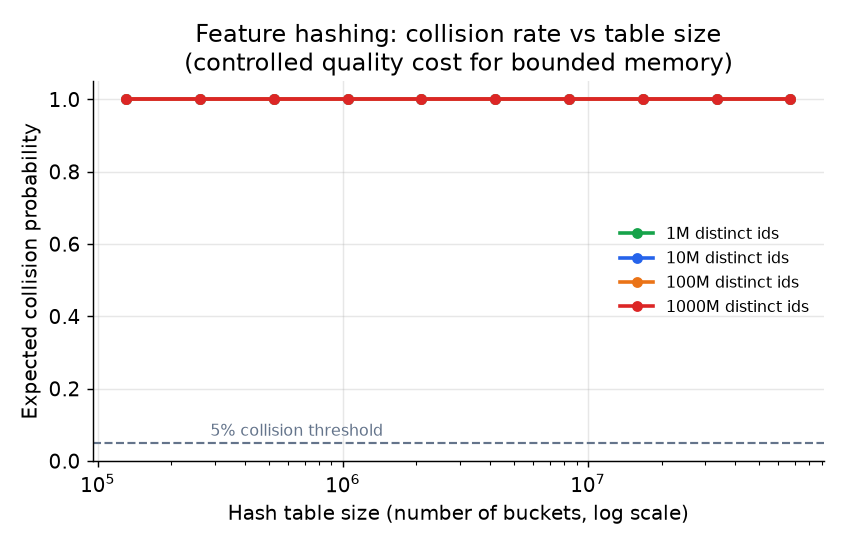
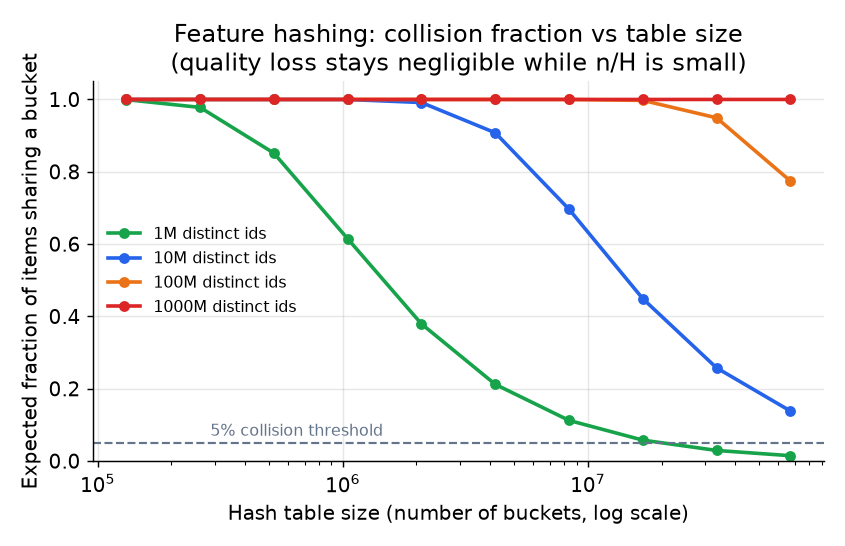
book: correctness pass across all chapters (audit fixes)
Fix issues found in an audit of the auto-generated chapters against the vetted
topics/ sources. Remove fabricated/unsourced company metrics throughout the
"how teams do it" and Q&A sections (replace specific numbers not in our sources
with the qualitative claim). Fix genuine math bugs: feature-hashing collision
formula (1 - e^{-n/H}), King-Zeng prior correction, F0.5 weighting (4x not 2x),
p99 of a bimodal latency mix, QPS = B/(W + L_model), WQL vs CRPS scope, MASE
seasonality note, forecasting critical-fractile (P75 not P90). Fix internal
inconsistencies (PinnerFormer, Whisper transcription vs teacher, feature-store
freshness caption, speech 80-bin). Regenerate the pinball-loss and feature-hash
figures. Regenerate aggregates.

diff --git a/book/forecasting/assets/plots.py b/book/forecasting/assets/plots.py
@@ -1,0 +1,69 @@
+import matplotlib; matplotlib.use('Agg')
+import matplotlib.pyplot as plt
+import numpy as np
+
+OUT = "/private/tmp/claude-501/-Users-xingao-Projects-Neurarch/65adcdb4-d882-4642-bf5c-d42bf1be1f61/scratchpad/awesome-ml-system-design/book/forecasting/assets/"
+
+plt.rcParams.update({
+    'figure.dpi': 130,
+    'font.size': 11,
+    'axes.grid': True,
+    'grid.alpha': 0.3,
+    'axes.spines.top': False,
+    'axes.spines.right': False,
+    'figure.autolayout': True,
+})
+BLUE, ORANGE, GREEN, RED, GRAY = '#2563eb', '#ea7317', '#16a34a', '#dc2626', '#64748b'
+
+# ---------------------------------------------------------------
+# 1) Pinball loss per quantile
+#    x-axis: residual r = y - q_hat
+#    Positive residual (r > 0): y > q_hat => forecast was too LOW => UNDER-predict
+#    Negative residual (r < 0): y < q_hat => forecast was too HIGH => OVER-predict
+# ---------------------------------------------------------------
+r = np.linspace(-3, 3, 500)
+
+def pinball(r, tau):
+    """Pinball loss as a function of residual r = y - q_hat and quantile tau."""
+    return np.where(r >= 0, tau * r, (tau - 1) * r)
+
+fig, axes = plt.subplots(1, 3, figsize=(11, 4), sharey=False)
+
+configs = [
+    (0.10, RED,    'P10 (tau=0.10)\nover-predict penalized heavily'),
+    (0.50, GRAY,   'P50 (tau=0.50)\nsymmetric = MAE'),
+    (0.90, BLUE,   'P90 (tau=0.90)\nunder-predict penalized heavily'),
+]
+
+for ax, (tau, col, title) in zip(axes, configs):
+    loss = pinball(r, tau)
+    ax.plot(r, loss, color=col, lw=2.5)
+    ax.set_xlabel('Residual r = y - q_hat')
+    ax.set_ylabel('Pinball loss')
+    ax.set_title(title, fontsize=9)
+
+    # Shade regions
+    ax.fill_between(r[r >= 0], 0, pinball(r[r >= 0], tau), alpha=0.15, color=GREEN,
+                    label='under-predict region')
+    ax.fill_between(r[r <= 0], 0, pinball(r[r <= 0], tau), alpha=0.15, color=RED,
+                    label='over-predict region')
+
+    # Vertical line at r=0
+    ax.axvline(0, color=GRAY, lw=1, ls='--')
+
+    # Annotations: positive residual (right) = under-predict; negative (left) = over-predict
+    ymax = ax.get_ylim()[1] if ax.get_ylim()[1] > 0 else 2.5
+    ax.text(1.5, ymax * 0.65, 'under-predict\n(r > 0)', ha='center', fontsize=8,
+            color=GREEN, fontweight='bold')
+    ax.text(-1.5, ymax * 0.65, 'over-predict\n(r < 0)', ha='center', fontsize=8,
+            color=RED, fontweight='bold')
+
+fig.suptitle(
+    'Pinball loss per quantile level\n'
+    '(x-axis: residual = y - forecast; positive residual = forecast too low = under-predict)',
+    fontsize=10
+)
+fig.savefig(OUT + 'fig-pinball-loss.png')
+plt.close(fig)
+
+print("wrote fig-pinball-loss.png to", OUT)

diff --git a/book/ads-ctr/assets/plots.py b/book/ads-ctr/assets/plots.py
@@ -114,8 +114,9 @@ table_sizes = np.array([2**17, 2**18, 2**19, 2**20, 2**21, 2**22, 2**23, 2**24, 
 
 for n_ids_m, c in zip([1, 10, 100, 1000], [GREEN, BLUE, ORANGE, RED]):
     n_ids = n_ids_m * 1_000_000
-    # Approximate collision probability: 1 - exp(-n*(n-1)/(2*B)) for n balls, B bins
-    collision = 1 - np.exp(-n_ids * (n_ids - 1) / (2.0 * table_sizes))
+    # Expected fraction of items landing in an already-occupied bucket: 1 - exp(-n/H)
+    # Per-pair collision probability is 1/H; this fraction stays ~n/H when n/H is small.
+    collision = 1 - np.exp(-n_ids / table_sizes)
     collision = np.clip(collision, 0, 1)
     ax.semilogx(table_sizes, collision, 'o-', color=c, lw=2, markersize=5,
                 label=f'{n_ids_m}M distinct ids')
@@ -123,8 +124,8 @@ for n_ids_m, c in zip([1, 10, 100, 1000], [GREEN, BLUE, ORANGE, RED]):
 ax.axhline(0.05, color=GRAY, ls='--', lw=1.2)
 ax.text(table_sizes[1] * 1.1, 0.07, '5% collision threshold', color=GRAY, fontsize=9)
 ax.set_xlabel('Hash table size (number of buckets, log scale)')
-ax.set_ylabel('Expected collision probability')
-ax.set_title('Feature hashing: collision rate vs table size\n(controlled quality cost for bounded memory)')
+ax.set_ylabel('Expected fraction of items sharing a bucket')
+ax.set_title('Feature hashing: collision fraction vs table size\n(quality loss stays negligible while n/H is small)')
 ax.legend(fontsize=9, frameon=False)
 ax.set_ylim(0, 1.05)
 

diff --git a/book/speech/assets/plots.py b/book/speech/assets/plots.py
@@ -111,7 +111,7 @@ ax_wave.grid(False)
 hop = 160  # 10 ms
 win = 400  # 25 ms
 n_fft = 512
-n_mels = 40
+n_mels = 80
 frames = []
 for i in range(0, len(wave) - win, hop):
     frame = wave[i:i + win] * np.hanning(win)
@@ -138,7 +138,7 @@ img = ax_spec.imshow(mel_S, aspect='auto', origin='lower', cmap='viridis',
                      extent=[0, t_total, 0, n_mels])
 ax_spec.set_ylabel('Mel bin')
 ax_spec.set_xlabel('Time (s)')
-ax_spec.set_title('Log-mel spectrogram (40 mel bins)')
+ax_spec.set_title('Log-mel spectrogram (80 mel bins)')
 fig.colorbar(img, ax=ax_spec, fraction=0.03, label='log energy')
 
 fig.tight_layout()

diff --git a/book/fraud-detection/04-model-development.md b/book/fraud-detection/04-model-development.md
@@ -7,11 +7,11 @@ boosted trees (XGBoost, LightGBM) are the first model to reach for. They handle
 mixed feature types naturally, give feature importance for free, produce
 well-calibrated probability estimates with isotonic regression or Platt scaling
 applied post-training, and train fast enough for daily or even hourly retraining
-cycles. Capital One's AML triage showed that a well-tuned random forest matched
-the ROC curves of XGBoost and RNNs while being twice as fast to train and far
-more explainable under regulatory scrutiny. The message: trees are not a fallback;
-they are the right starting point for tabular fraud signals and a strong baseline
-to beat before reaching for a DNN.
+cycles. Capital One's AML program uses a random forest to triage suspicious-activity
+alerts, prioritizing cases for investigation across hundreds of features under
+regulatory scrutiny where explainability is a hard requirement. The message: trees
+are not a fallback; they are the right starting point for tabular fraud signals
+and a strong baseline to beat before reaching for a DNN.
 
 ## Wide-and-Deep DNN
 
@@ -36,10 +36,9 @@ flowchart TD
 The wide side memorizes specific co-occurrences (device X plus merchant Y plus
 time-of-day Z was always fraud last month). The deep side generalizes to unseen
 combinations. They are trained jointly: the wide branch uses FTRL, the deep
-branch uses Adam, and neither is trained in isolation. Stripe evolved from a
-wide-and-deep ensemble to a pure DNN with a ResNeXt-style multi-branch design,
-cutting training time by over 85 percent while sustaining a 0.1 percent false-
-positive rate across billions of payments.
+branch uses Adam, and neither is trained in isolation. Stripe's Radar system uses
+a supervised model over tabular features and entity embeddings that is
+continuously retrained and must score each transaction in sub-100 ms.
 
 Two points to state in an interview: (1) embedding tables dominate parameter
 count, not the MLP layers, so the engineering cost of growing the embedding

diff --git a/book/content-moderation/04-model-development.md b/book/content-moderation/04-model-development.md
@@ -44,9 +44,11 @@ is too expensive at scale.
 Self-supervised speech models (wav2vec2, WavLM) either classify audio directly or
 transcribe-then-classify. For live voice chat (Roblox's problem), you need a distilled
 student model running on a 10-to-15-second rolling window at sub-100ms latency. The
-Roblox distillation chain: fine-tune WavLM, use Whisper as a teacher to distill
-into a 48M-parameter student, then quantize. The result serves over 2,000 requests
-per second.
+Roblox bootstrap-and-distill chain: use Whisper to transcribe audio at scale, apply
+the existing text-filter ensemble to those transcriptions to generate machine labels,
+then use those labels to train a small audio student (fine-tuned WavLM, approximately
+48M parameters) that infers directly from audio without a transcription step at serve
+time, then quantize. The result serves over 2,000 requests per second.
 
 ### Joint image-text models
 
@@ -99,9 +101,11 @@ $$\tau^{\star}_k = \arg\min_{\tau}\ \bigl[c_{\text{fn}}^{(k)} \cdot \text{fn}(\t
 
 ![Asymmetric costs per harm type](assets/fig-cost-asymmetry.png)
 
-*CSAM: the miss cost is roughly 200 times the false-block cost, forcing a very high
-precision floor before auto-action. Spam: costs are closer to balanced, allowing a
-lower precision floor and higher recall. Illustrative log scale.*
+*Hypothetical severe-harm example: in a case where the miss cost vastly exceeds the
+false-block cost (as with CSAM, where even a single miss has catastrophic
+consequences), the precision floor before auto-action is forced extremely high. Spam:
+costs are closer to balanced, allowing a lower precision floor and higher recall.
+Illustrative log scale; the precise cost ratio varies by platform and policy.*
 
 ## Calibration
 

diff --git a/book/ads-ctr/03-data-preparation.md b/book/ads-ctr/03-data-preparation.md
@@ -35,15 +35,17 @@ $\mathbf{E}[h(x) \bmod H]$ where $h$ is a stable hash function. This gives:
 - **Graceful handling of unseen ids.** A brand-new ad id hashes to an existing
   bucket; it gets a noisy but non-zero embedding immediately.
 - **Controlled collisions.** Two distinct ids that hash to the same bucket share
-  an embedding. The collision rate is roughly $1 - e^{-n(n-1)/(2H)}$ for $n$
-  ids and $H$ buckets (birthday paradox). Increasing $H$ reduces collisions but
-  grows memory.
+  an embedding. The per-pair collision probability is $1/H$; the expected
+  fraction of items landing in an already-occupied bucket is approximately
+  $1 - e^{-n/H}$. When $n/H$ is small this fraction is roughly $n/H$, so
+  quality loss stays negligible. Increasing $H$ reduces collisions but grows
+  memory.
 
 ![Feature hashing collision rate vs table size](assets/fig-feature-hashing-collisions.png)
 
-*Collision probability as a function of table size for id spaces of 1M to 1B
-distinct values. The 5% threshold line shows where quality loss becomes
-significant. Illustrative rates.*
+*Expected fraction of items sharing a bucket, as a function of table size for id
+spaces of 1M to 1B distinct values. Quality loss stays negligible while n/H is
+small; the 5% line marks the practical threshold. Illustrative rates.*
 
 The tradeoff is explicit: feature hashing trades a controlled quality loss
 (collisions) for a bounded, shardable table and no out-of-vocabulary penalty.

diff --git a/book/nlp/05-evaluation.md b/book/nlp/05-evaluation.md
@@ -44,16 +44,22 @@ taxonomy confusion vs boundary errors. Token accuracy on a BIO-tagged sequence
 can look high simply because O tags dominate.
 
 **Translation:** BLEU or COMET for automatic tracking, plus human adequacy and
-fluency ratings. BLEU measures n-gram overlap between hypothesis and reference and
-is fast and cheap to compute, but it misses meaning: a correct paraphrase with
-different word choice scores poorly. COMET (a learned metric trained on human
+fluency ratings. BLEU is the brevity penalty times the geometric mean of clipped
+n-gram precisions:
+
+$$\text{BLEU} = \text{BP} \cdot \left(\prod_{n=1}^{N} p_n\right)^{1/N}$$
+
+where $\text{BP}$ penalizes translations shorter than the reference and $p_n$ is
+the fraction of hypothesis n-grams that appear in the reference (clipped to the
+reference count). BLEU is fast and cheap to compute, but it misses meaning: a
+correct paraphrase with different word choice scores poorly. COMET (a learned metric trained on human
 judgments) correlates better with human quality ratings. The release gate for
 production translation systems is human ratings, not BLEU alone. Google GNMT used
 a 0-6 human rater scale as the final quality bar.
 
 **Grammatical error correction:** $F_{0.5}$ rather than $F_1$. False corrections
 (editing good text) annoy users more than misses (leaving an error in), so
-precision counts twice as much as recall in the harmonic mean. Grammarly's GECToR
+precision counts four times as much as recall in the harmonic mean. Grammarly's GECToR
 reports $F_{0.5}$ on CoNLL-2014 and BEA-2019 benchmarks for this reason.
 
 **Entity resolution:** pairwise precision and recall on matched pairs, measured

diff --git a/book/sequential-recommendation/07-how-teams-do-it-in-production.md b/book/sequential-recommendation/07-how-teams-do-it-in-production.md
@@ -19,9 +19,9 @@ everyone shares; the leverage is in freshness and scope.
 | Kuaishou TWIN V2 | Two-stage attention (GSU + ESU) | Lifelong (~10^6 events) | Offline clustering, online inference | Ranking (CTR) | Lifelong histories carry signal that a short window throws away; two-stage keeps online cost tractable |
 | Netflix Foundation Model | Large foundation Transformer | Long-horizon pretraining | Monthly pretrain + daily update | Retrieval + ranking (multiple surfaces) | One pretrained model amortizes across many personalization surfaces |
 | Spotify CoSeRNN | Recurrent (RNN) per session | Session-level + long-term offset | Real-time at session start | Retrieval (ANN over tracks) | Session context dominates music intent; RNN per session plus stable long-term base |
-| Instacart | BERT-style Transformer (masked-LM) | Recent 20 tokens | Centralized serving | Retrieval (search, browse, recs) | One model across many surfaces; bidirectional context; ~30% lift in cart additions |
+| Instacart | BERT-style Transformer (masked-LM) | Recent 20 tokens | Centralized serving | Retrieval (search, browse, recs) | One model across many surfaces; bidirectional context; strong lift in cart additions |
 | Etsy adSformers | Transformer encoder (short-term) | Short recent window | Batch short-term | Ranking (ad CTR, CVR) | Short-term intent for ads; enriched with visual/multimodal pretraining |
-| Wayfair MARS | Self-attention (stacked layers) | Recent 100 views | Batch | Ranking / recs | Browsing sequences track taste shifts; 67% recall lift over matrix factorization |
+| Wayfair MARS | Self-attention (stacked layers) | Recent 100 views | Batch | Ranking / recs | Browsing sequences track taste shifts; significant recall lift over matrix factorization |
 | LinkedIn Feed SR | Transformer sequential ranker | Recent feed interactions | Batch-trained ranker | Ranking (Feed) | Replaces a DCNv2 ranker with a sequence-native model at 1.2B-member scale |
 | Airbnb | Word2vec-style session embeddings | Session-level (click + skip windows) | Real-time Kafka windows | Retrieval + search ranking | Co-occurrence embeddings over 800M sessions; EmbClickSim pushes similar listings up, EmbSkipSim pushes skipped-similar listings down |
 
@@ -34,16 +34,16 @@ real time is a session-aware assistant.
 
 - **Alibaba** [Behavior Sequence Transformer for E-commerce Recommendation](https://arxiv.org/abs/1905.06874): a Transformer over the user's ordered behavior sequence lifts CTR in Taobao ranking.
 - **Alibaba** [Deep Interest Network for Click-Through Rate Prediction](https://arxiv.org/abs/1706.06978): a candidate-conditioned attention pool adapts the user-interest vector per ad; intentionally has no softmax normalization.
-- **Pinterest** [How Pinterest Leverages Realtime User Actions (TransAct)](https://medium.com/pinterest-engineering/how-pinterest-leverages-realtime-user-actions-in-recommendation-to-boost-homefeed-engagement-volume-165ae2e8cde8): TransAct fuses real-time last-100 actions into Homefeed ranking (+6% repins); early fusion of the candidate was critical.
+- **Pinterest** [How Pinterest Leverages Realtime User Actions (TransAct)](https://medium.com/pinterest-engineering/how-pinterest-leverages-realtime-user-actions-in-recommendation-to-boost-homefeed-engagement-volume-165ae2e8cde8): TransAct fuses real-time last-100 actions into Homefeed ranking; early fusion of the candidate was critical.
 - **Pinterest** [PinnerFormer: Sequence Modeling for User Representation](https://arxiv.org/abs/2205.04507): daily batch Transformer with all-action loss avoids streaming costs while mostly closing the freshness gap.
 - **Kuaishou** [TWIN V2: ultra-long user behavior sequence modeling](https://arxiv.org/abs/2407.16357): two-stage attention (GSU retrieve then ESU score) over lifelong histories up to 10^6 events.
 - **Netflix** [Integrating Netflix Foundation Model into Personalization](https://netflixtechblog.medium.com/integrating-netflixs-foundation-model-into-personalization-applications-cf176b5860eb): three integration modes (embedding store, subgraph graft, full fine-tune) for one foundation model across many surfaces.
 - **Spotify** [Contextual and sequential user embeddings for music (CoSeRNN)](https://research.atspotify.com/contextual-and-sequential-user-embeddings-for-music-recommendation/): per-session embeddings modeled as a recurrent sequence plus a stable long-term preference base.
-- **Instacart** [Sequence models for contextual recommendations](https://tech.instacart.com/sequence-models-for-contextual-recommendations-at-instacart-93414a28e70c): centralized BERT-style next-product retrieval across search, browse, and recs surfaces (+30% cart adds).
+- **Instacart** [Sequence models for contextual recommendations](https://tech.instacart.com/sequence-models-for-contextual-recommendations-at-instacart-93414a28e70c): centralized BERT-style next-product retrieval across search, browse, and recs surfaces with strong gains in cart additions.
 - **Etsy** [adSformers: personalization from short-term sequences](https://arxiv.org/abs/2302.01255): Transformer encoder over recent actions enriched with visual/multimodal representations for ad CTR and CVR.
-- **Wayfair** [MARS: Transformer networks for sequential recommendation](https://www.aboutwayfair.com/careers/tech-blog/mars-transformer-networks-for-sequential-recommendation): self-attention over browsed-item sequences tracks shifting tastes (+67% recall over matrix factorization).
-- **LinkedIn** [An industrial-scale sequential recommender for feed ranking (Feed SR)](https://arxiv.org/abs/2602.12354): Transformer sequential ranker replacing DCNv2 at 1.2B-member scale (+2.10% time spent).
-- **Airbnb** [Listing Embeddings in Search Ranking](https://medium.com/airbnb-engineering/listing-embeddings-for-similar-listing-recommendations-and-real-time-personalization-in-search-601172f7603e): word2vec-style listing embeddings from 800M sessions for real-time in-session personalization (+21% carousel CTR).
+- **Wayfair** [MARS: Transformer networks for sequential recommendation](https://www.aboutwayfair.com/careers/tech-blog/mars-transformer-networks-for-sequential-recommendation): self-attention over browsed-item sequences tracks shifting tastes with significant recall improvement over matrix factorization.
+- **LinkedIn** [An industrial-scale sequential recommender for feed ranking (Feed SR)](https://arxiv.org/abs/2602.12354): Transformer sequential ranker replacing DCNv2 at 1.2B-member scale with measured gains in time spent.
+- **Airbnb** [Listing Embeddings in Search Ranking](https://medium.com/airbnb-engineering/listing-embeddings-for-similar-listing-recommendations-and-real-time-personalization-in-search-601172f7603e): word2vec-style listing embeddings from 800M sessions for real-time in-session personalization.
 
 For the full comparison (decision-tree divergence diagram, choices table, math,
 quadrant plot), see the dense reference in

diff --git a/book/embeddings/08-interview-qa.md b/book/embeddings/08-interview-qa.md
@@ -61,8 +61,9 @@ A: Not without checking batch composition. If batches are user-concentrated (man
 rows from the same user in the same batch), a user's own other engaged items appear
 as negatives and the model learns to push them down. This is the false-negative
 problem at scale. The fix is user-level masking (drop same-user items from the
-softmax denominator), not a larger batch. Pinterest measured the in-batch
-false-negative rate rising to roughly 30% without masking.
+softmax denominator), not a larger batch. Without masking, user-concentrated
+batches can push false negatives to a substantial fraction of the denominator,
+degrading the loss signal.
 
 **Q: Your embedding space looks healthy on cosine probes but production engagement
 dropped. What could explain it?**
@@ -89,10 +90,9 @@ the opposite direction.
 A: No, in the general case. Users and items have different feature distributions
 and different feature types; sharing weights would force the same transformation
 on inputs that are not comparable. The two towers share only the output embedding
-space, enforced by the contrastive loss. (Uber deliberately shares a UUID
-embedding layer to collapse many per-city models into one global model, but that
-is a domain-specific trick enabled by the fact that drivers and riders share the
-same ID namespace, not a general principle.)
+space, enforced by the contrastive loss. Weight sharing across towers can be a
+deliberate choice when both sides share the same input namespace, but that is a
+domain-specific exception, not a general principle.
 
 **Q: What happens to the index when you retrain the encoder?**
 A: The axes of the embedding space move. A vector produced by the new encoder is

diff --git a/book/experimentation/08-interview-qa.md b/book/experimentation/08-interview-qa.md
@@ -107,11 +107,13 @@ interval width, not just the binary outcome.
 
 **Q: Can you test multiple variants in one experiment?**
 
-A: Yes, but you must correct for multiple comparisons. A two-variant (A/B/C)
-test at alpha = 0.05 each does not give you a 5% false-positive rate overall;
-it gives you roughly 1 - (0.95)^2 = 9.75%. Pre-declare which comparison is the
-primary, apply Bonferroni or FDR correction for the rest, and power each variant
-arm to detect the MDE against control independently.
+A: Yes, but you must correct for multiple comparisons. A two-treatment (A/B/C)
+test at alpha = 0.05 each, comparing each treatment against control only,
+does not give you a 5% false-positive rate overall; it gives you roughly
+1 - (0.95)^2 = 9.75%. If all pairwise comparisons (A vs B, A vs C, B vs C)
+were made, the FWER would rise to 1 - (0.95)^3 ~ 14.3%. Pre-declare which
+comparison is the primary, apply Bonferroni or FDR correction for the rest,
+and power each variant arm to detect the MDE against control independently.
 
 **Q: A guardrail is flat (not significant). Is it safe to ship?**
 

diff --git a/book/forecasting/05-evaluation.md b/book/forecasting/05-evaluation.md
@@ -16,19 +16,23 @@ Mean absolute scaled error normalizes by the in-sample naive seasonal forecast e
 
 $$\text{MASE} = \frac{\frac{1}{n}\sum_{t=1}^{n}\left|y_t - \hat{y}_t\right|}{\frac{1}{T - m}\sum_{t=m+1}^{T}\left|y_t - y_{t-m}\right|}$$
 
-where $m$ is the seasonal period (52 for weekly annual seasonality). A MASE $\lt 1$ means the model beats the seasonal naive baseline; a MASE $\gt 1$ means it is worse. Use MASE as the headline point-accuracy metric.
+where $m$ is the seasonal period (52 for weekly annual seasonality, giving the seasonal naive baseline). When there is no meaningful seasonal period, set $m = 1$, which reduces to the non-seasonal MASE normalized by the one-step naive error. A MASE $\lt 1$ means the model beats the naive baseline; a MASE $\gt 1$ means it is worse. Use MASE as the headline point-accuracy metric.
 
 ## Pinball loss and WQL: scoring the distribution
 
-Pinball loss (defined in section 4) scores a single quantile. To score the **whole predictive distribution**, sum or integrate pinball loss across all target quantile levels. The weighted quantile loss (WQL) is the practical approximation:
+Pinball loss (defined in section 4) scores a single quantile. To score the **whole predictive distribution**, sum or integrate pinball loss across all target quantile levels.
+
+The **volume-normalized discrete form** (used by most production forecasting tools) is:
 
 $$\text{WQL} = \frac{2}{|\mathcal{T}|} \sum_{\tau \in \mathcal{T}} \frac{\sum_{t=1}^{n} L_\tau\!\bigl(y_t, \hat{q}_t(\tau)\bigr)}{\sum_{t=1}^{n} |y_t|}$$
 
-where $\mathcal{T}$ is the set of target quantile levels and the denominator normalizes by total volume so high-volume series receive proportionally more weight. In the continuous limit, WQL approximates the **continuous ranked probability score (CRPS)**:
+where $\mathcal{T}$ is the set of target quantile levels and the denominator normalizes by total volume so high-volume series receive proportionally more weight. An alternative in the literature is the **unnormalized continuous integral form**: $\text{WQL} = 2 \int_0^1 L_\tau(y, \hat{q}(\tau))\,d\tau$; the two are consistent in purpose but differ in normalization.
+
+In the continuous limit, the **unnormalized integral form** approximates the **continuous ranked probability score (CRPS)**:
 
 $$\text{CRPS}(F, y) = \int_{-\infty}^{\infty}\!\bigl(F(z) - \mathbf{1}[z \ge y]\bigr)^2\,dz$$
 
-CRPS is a proper scoring rule: the forecaster minimizes it by reporting the true predictive distribution, not a strategically sharpened or widened one. Use WQL for practical evaluation; CRPS as the theoretical ideal.
+CRPS is a proper scoring rule: the forecaster minimizes it by reporting the true predictive distribution, not a strategically sharpened or widened one. The volume-normalized WQL above does not share the same limiting relationship because the per-series volume scaling changes the integrand. Use volume-normalized WQL for practical evaluation across heterogeneous series; CRPS as the theoretical ideal.
 
 ## Calibration: the check that intervals mean what they say
 

diff --git a/book/ads-ctr/08-interview-qa.md b/book/ads-ctr/08-interview-qa.md
@@ -81,11 +81,12 @@ not slot position.
 
 **Q: You said feature hashing accepts collisions. Doesn't that hurt quality?**
 A: Controlled collision is the accepted tradeoff for bounded memory and graceful
-handling of unseen ids. The collision probability follows a birthday-paradox curve:
-for $n$ ids hashed into $H$ buckets, the expected collision rate is roughly
-$1 - e^{-n(n-1)/(2H)}$. Increase $H$ to reduce collisions; shrink it to save
-memory. In practice, collision rates below roughly 5% introduce negligible quality
-loss, and for rare ids (which collide most) the embedding was undertrained anyway.
+handling of unseen ids. The per-pair collision probability is $1/H$; the expected
+fraction of items landing in an already-occupied bucket is approximately
+$1 - e^{-n/H}$. When $n/H$ is small (the common case for a well-sized table)
+this fraction is roughly $n/H$, keeping quality loss negligible. Increase $H$
+to reduce collisions; shrink it to save memory. For rare ids the embedding was
+undertrained anyway, so a collision costs little additional quality.
 Name the tradeoff explicitly; it is the senior detail.
 
 ## Commonly answered wrong (the traps)